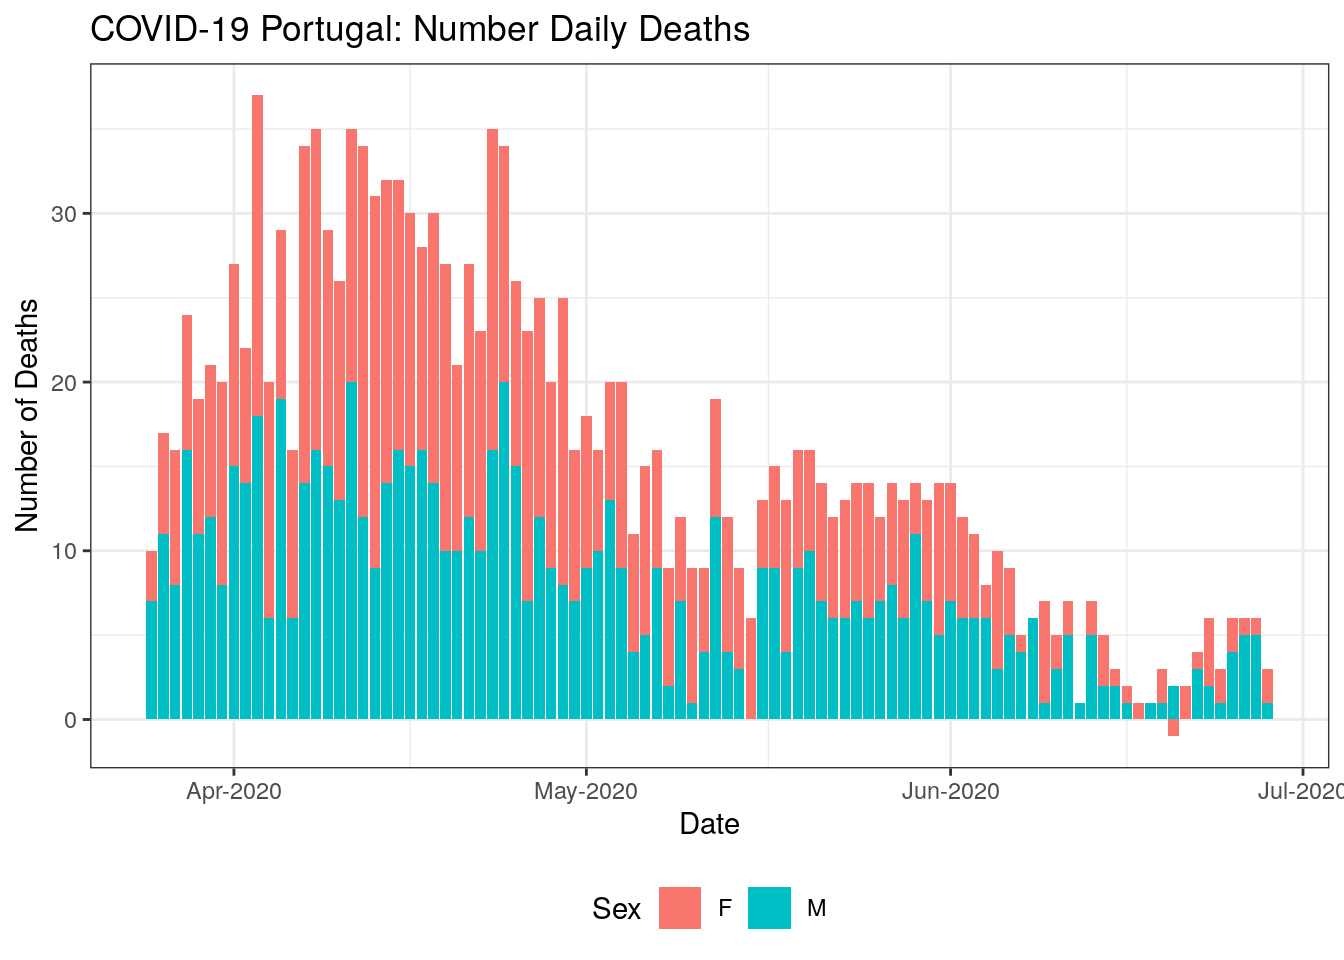
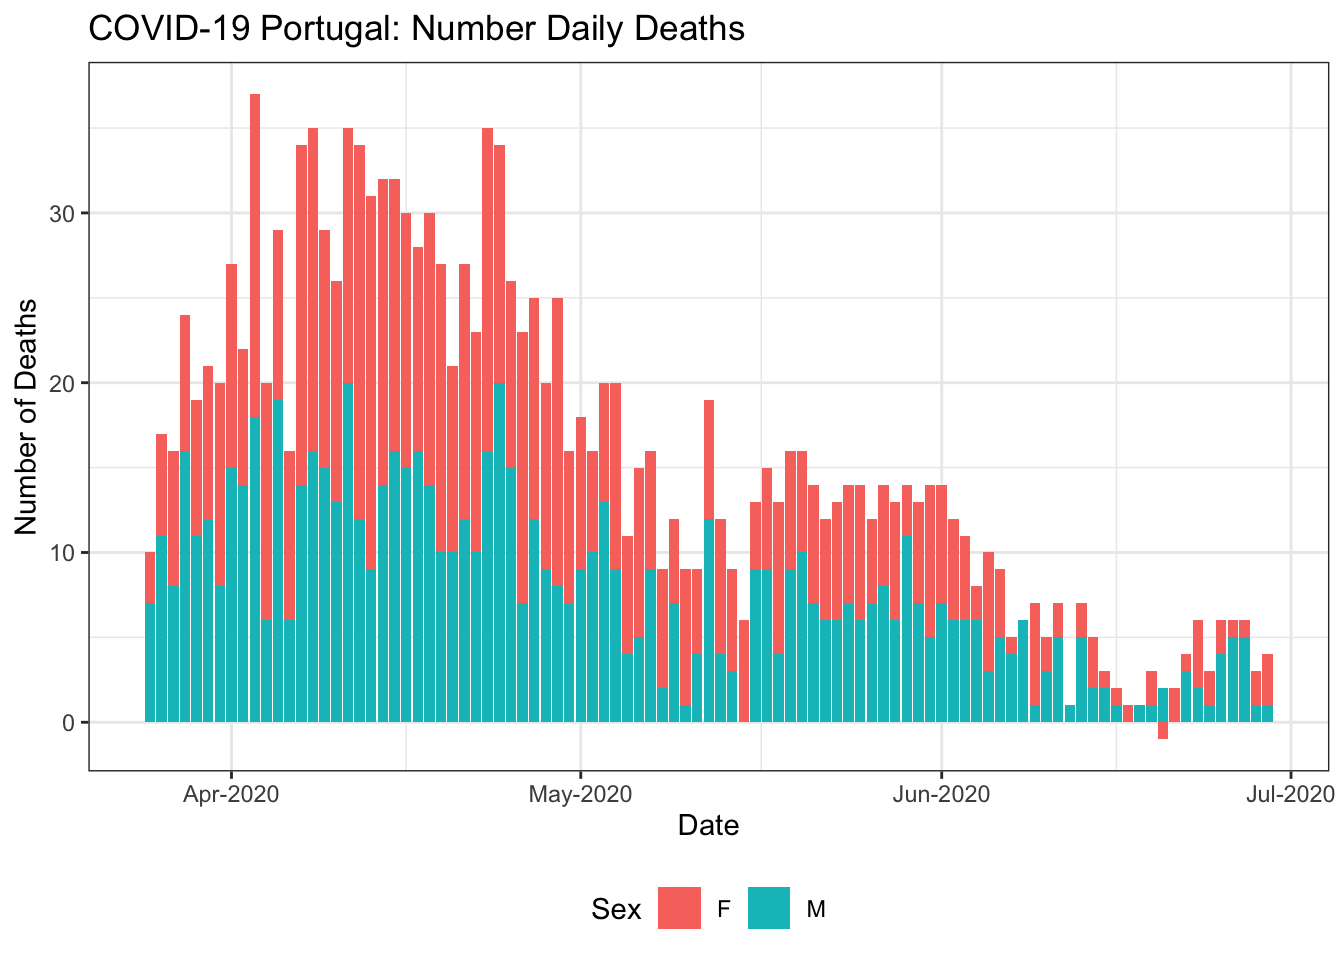
Data Update & Re-build README.Rmd

diff --git a/README.md b/README.md
@@ -1,13 +1,13 @@
 
 # Portuguese COVID-19 Data
 
-**Last updated:** Mon 29 Jun 2020 (09:07:33 WEST \[+0100\])
+**Last updated:** Mon 29 Jun 2020 (15:25:16 UTC \[+0000\])
 
 ## Data Meta Information
 
   - **Start date:** 2020-02-26
-  - **End Date:** 2020-06-28
-  - **Number of days:** 124
+  - **End Date:** 2020-06-29
+  - **Number of days:** 125
 
 ## Source
 
@@ -48,7 +48,7 @@ theme_set(theme_bw())
 # Read in data as a data.frame and data.table object.
 CV <- fread(here("data", "covid19pt_DSSG_Long.csv"))
 str(CV)
-## Classes 'data.table' and 'data.frame':   10416 obs. of  12 variables:
+## Classes 'data.table' and 'data.frame':   10500 obs. of  12 variables:
 ##  $ data       : chr  "2020-02-26" "2020-02-27" "2020-02-28" "2020-02-29" ...
 ##  $ origVars   : chr  "cadeias_transmissao" "cadeias_transmissao" "cadeias_transmissao" "cadeias_transmissao" ...
 ##  $ origType   : chr  "cadeias" "cadeias" "cadeias" "cadeias" ...
@@ -105,7 +105,7 @@ CV[origType=="confirmados" & ageGrp=="" & region!="Portugal"] %>%
     y = "Number of Confirmed Cases",
     colour = "Region")
 ## Warning: Transformation introduced infinite values in continuous y-axis
-## Warning: Removed 108 row(s) containing missing values (geom_path).
+## Warning: Removed 109 row(s) containing missing values (geom_path).
 ```
 
 <img src="README_figs/README-casesbyRegion-1.png" width="672" />
@@ -124,9 +124,9 @@ CV[dayChange<0][
 ##   4: 2020-03-24 confirmados_40_49_f   224        -2
 ##   5: 2020-03-19 confirmados_60_69_f    35       -14
 ##  ---                                               
-## 288: 2020-06-08          vigilancia 28791      -521
-## 289: 2020-06-13          vigilancia 30655      -124
-## 290: 2020-06-17          vigilancia 30289      -521
-## 291: 2020-06-19          vigilancia 29046     -1380
-## 292: 2020-06-23          vigilancia 30248      -708
+## 291: 2020-06-08          vigilancia 28791      -521
+## 292: 2020-06-13          vigilancia 30655      -124
+## 293: 2020-06-17          vigilancia 30289      -521
+## 294: 2020-06-19          vigilancia 29046     -1380
+## 295: 2020-06-23          vigilancia 30248      -708
 ```
